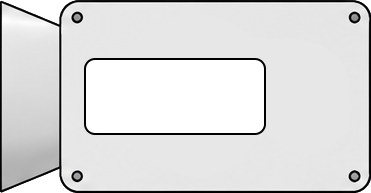
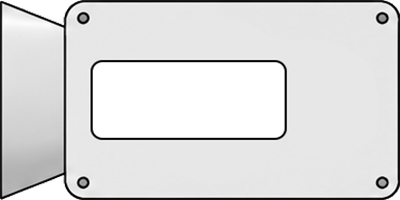
Adding SGs and experiment state variable

diff --git a/sims/stern-gerlach/src/LabPanel.jsx b/sims/stern-gerlach/src/LabPanel.jsx
@@ -1,22 +1,35 @@
 import React, { useRef, useEffect, useState } from 'react';
+import sgImage from './assets/SG.png';
 
-export default function LabPanel({ displayBools }) {
+const SG_WIDTH = 160;
+const SG_HEIGHT = 90;
+const SG_SPACING = 300;   // horizontal gap between apparatus centers
+const SG_START_X = 150;   // x-position of the first apparatus
+
+export default function LabPanel({ experiment, setExperiment, displayBools }) {
   const canvasRef = useRef(null);
   const containerRef = useRef(null);
   const [canvasDims, setCanvasDims] = useState({ width: 800, height: 600 });
+  const [offset, setOffset] = useState({ x: 0, y: 0 }); // Used for mouse dragging events
   const [axis, setAxis] = useState(300); // y-coordinate of halfway down the canvas; determines position of all user-created devices
-
-  // All old and temporary
-  const [circle, setCircle] = useState({ x: 300, y: 200, radius: 8 });
-  const [draggingCircle, setDraggingCircle] = useState(false);
-  const [offset, setOffset] = useState({ x: 0, y: 0 });
-  const [circleColor, setCircleColor] = useState(false);
+  // This ref holds the SG image for all time
+  const sgImageRef = useRef(null);
+  const [sgImageLoaded, setSgImageLoaded] = useState(false);
 
   // Resize canvas to fill container
   useEffect(() => {
     const canvas = canvasRef.current;
     const container = containerRef.current;
     if (!canvas || !container) return;
+
+    // Load the SG image once. This never touches the DOM — it's just an
+    // in-memory Image object we hand to ctx.drawImage as many times as we want.
+    const img = new Image();
+    img.src = sgImage;
+    img.onload = () => {
+      sgImageRef.current = img;
+      setSgImageLoaded(true);   // triggers a redraw now that it's actually ready
+    };
 
     const resizeCanvas = () => {
       const newWidth = container.clientWidth;
@@ -27,7 +40,6 @@ export default function LabPanel({ displayBools }) {
 
       const halfwayY = newHeight / 2;
       setAxis(halfwayY);
-      setCircle((prev) => ({ ...prev, y: halfwayY }));
     };
 
     resizeCanvas();
@@ -62,65 +74,67 @@ export default function LabPanel({ displayBools }) {
       ctx.stroke();
     }
 
-    // Draw circle
-    ctx.fillStyle = circleColor ? '#e74c3c' : '#39db34';
-    ctx.beginPath();
-    ctx.arc(circle.x, circle.y, circle.radius, 0, Math.PI * 2);
-    ctx.fill();
-
-    // Draw circle outline
-    ctx.strokeStyle = circleColor ? '#c0392b' : '#2bb929';
-    ctx.lineWidth = 2;
-    ctx.stroke();
-  }, [circle, circleColor, canvasDims, displayBools]);
-
-  // Mouse handlers
-  const handleMouseDown = (e) => {
-    const canvas = canvasRef.current;
-    const rect = canvas.getBoundingClientRect();
-    const mouseX = e.clientX - rect.left;
-    const mouseY = e.clientY - rect.top;
-
-    const dist = Math.sqrt((mouseX - circle.x) ** 2 + (mouseY - circle.y) ** 2);
-
-    if (dist < circle.radius + 5) {
-      setDraggingCircle(true);
-      setOffset({
-        x: mouseX - circle.x,
-        y: mouseY - circle.y,
+    // Draw the SGs, one copy of the ref image each, plus the basis labels
+    if (sgImageRef.current && sgImageRef.current.complete) {
+      experiment.forEach((sg, i) => {
+        const x0 = SG_START_X + i * SG_SPACING;
+        ctx.drawImage(sgImageRef.current, x0, axis - SG_HEIGHT / 2, SG_WIDTH, SG_HEIGHT);
+        ctx.fillStyle = '#303030';
+        ctx.font = '32px Arial';
+        ctx.textAlign = 'center';
+        ctx.textBaseline = 'middle';
+        ctx.fillText(`X`, x0+62, axis);
       });
     }
-  };
+  }, [experiment, sgImageLoaded, axis, canvasDims, displayBools]);
 
-  const handleMouseMove = (e) => {
-    if (!draggingCircle) return;
+  // Mouse handlers
+  // const handleMouseDown = (e) => {
+  //   const canvas = canvasRef.current;
+  //   const rect = canvas.getBoundingClientRect();
+  //   const mouseX = e.clientX - rect.left;
+  //   const mouseY = e.clientY - rect.top;
 
-    const canvas = canvasRef.current;
-    const rect = canvas.getBoundingClientRect();
-    const mouseX = e.clientX - rect.left;
-    const mouseY = e.clientY - rect.top;
+  //   const dist = Math.sqrt((mouseX - circle.x) ** 2 + (mouseY - circle.y) ** 2);
 
-    setCircle({
-      ...circle,
-      x: Math.max(circle.radius, Math.min(canvas.width - circle.radius, mouseX - offset.x)),
-      y: Math.max(circle.radius, Math.min(canvas.height - circle.radius, mouseY - offset.y)),
-    });
-  };
+  //   if (dist < circle.radius + 5) {
+  //     setDraggingCircle(true);
+  //     setOffset({
+  //       x: mouseX - circle.x,
+  //       y: mouseY - circle.y,
+  //     });
+  //   }
+  // };
 
-  const handleMouseUp = () => {
-    setDraggingCircle(false);
-  };
+  // const handleMouseMove = (e) => {
+  //   if (!draggingCircle) return;
+
+  //   const canvas = canvasRef.current;
+  //   const rect = canvas.getBoundingClientRect();
+  //   const mouseX = e.clientX - rect.left;
+  //   const mouseY = e.clientY - rect.top;
+
+  //   setCircle({
+  //     ...circle,
+  //     x: Math.max(circle.radius, Math.min(canvas.width - circle.radius, mouseX - offset.x)),
+  //     y: Math.max(circle.radius, Math.min(canvas.height - circle.radius, mouseY - offset.y)),
+  //   });
+  // };
+
+  // const handleMouseUp = () => {
+  //   setDraggingCircle(false);
+  // };
 
   return (
     <div ref={containerRef} style={{ width: '100%', height: '100%' }}>
       <canvas
         ref={canvasRef}
-        onMouseDown={handleMouseDown}
-        onMouseMove={handleMouseMove}
-        onMouseUp={handleMouseUp}
-        onMouseLeave={handleMouseUp}
+        //onMouseDown={handleMouseDown}
+        //onMouseMove={handleMouseMove}
+        //onMouseUp={handleMouseUp}
+        //onMouseLeave={handleMouseUp}
         style={{
-          cursor: draggingCircle ? 'grabbing' : 'grab',
+          //cursor: draggingCircle ? 'grabbing' : 'grab',
           display: 'block',
           touchAction: 'none',
         }}

diff --git a/sims/stern-gerlach/src/App.jsx b/sims/stern-gerlach/src/App.jsx
@@ -54,12 +54,24 @@ export default function App() {
   const [displayBools, setDisplayBools] = useState({
     gridOn: true,             // Displaying the grid
   });
+  // The experimental setup is coded as a list of present SG setups; each
+  // setup has a measurement basis plus a statement about where its up and down
+  // outputs are going
+  // Start with one apparatus already in place
+  const [experiment, setExperiment] = useState([{ basis: [0, 0], up: null, down: null }]);
+
+  const addSternGerlach = () => {
+    setExperiment((prev) => [
+      ...prev,
+      { basis: [0, 0], up: null, down: null },
+    ]);
+  };
 
   return (
     <div className="app-layout">
       {/* Main Canvas Area */}
       <div className="canvas-area">
-        <LabPanel displayBools={displayBools} />
+        <LabPanel experiment={experiment} setExperiment={setExperiment} displayBools={displayBools} />
       </div>
 
       {/* Right Sidebar */}
@@ -70,7 +82,7 @@ export default function App() {
             <h3 style={{ margin: '0 0 6px 0', fontWeight: 'bold' }}>Build Experiment</h3>
             <div style={{ display: 'flex', flexDirection: 'row', gap: '8px' }}>
               <div style={{display: 'flex', flexDirection: 'column', gap: '8px' }}>
-                <button type="button" className="control-bar-button icon-button" aria-label="Add Stern-Gerlach apparatus">
+                <button type="button" className="control-bar-button icon-button" aria-label="Add Stern-Gerlach apparatus" onClick={addSternGerlach}>
                   <img src={sgImage} alt="" className="icon-button-image" />
                   <span>Add Stern-Gerlach</span>
                 </button>
